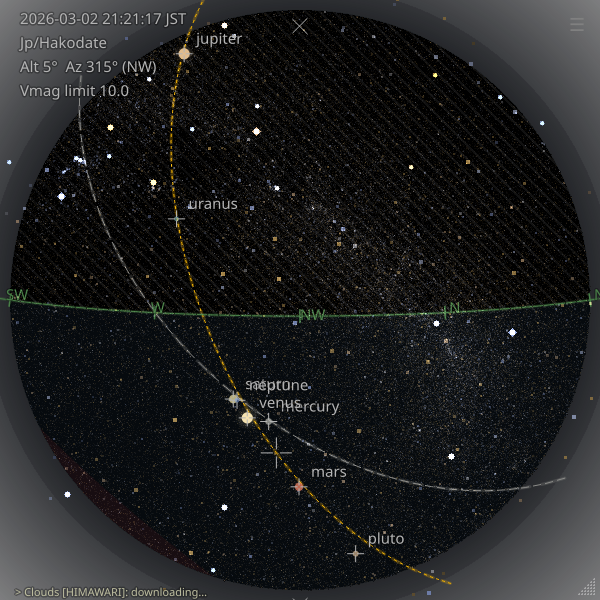
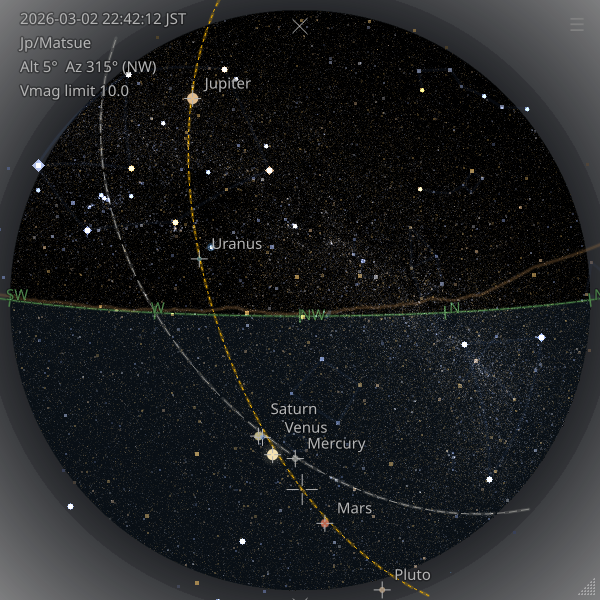
docs: update readmes and terrain data credits

Changed region(s): [[0.0, 0.0, 1.0, 1.0], [0.06, 0.06, 0.18, 0.09], [0.21, 0.0, 0.24, 0.06]]

diff --git a/README_ja-JP.md b/README_ja-JP.md
@@ -16,6 +16,7 @@
 - リアルタイムの衛星雲画像（Himawari/GOES）を縞模様（ハッチ）のオーバーレイとして重ねて表示します。
 - 雲データ取得と雲レイヤー生成は分離されており、カメラ（方位/仰角）変更時はキャッシュ済みソースから即座に再描画します。
 - 衛星データが部分的な場合、欠損領域は薄い黄色ティントで表示します。
+- Copernicus DEM を使った地形地平線オーバーレイを、控えめな茶色のスカイラインとして表示できます。
 - 地平線より下（地面側）は、向きの把握を助けるため薄いティントで表示します。
 - 観測地の緯度に対して昇らない天球領域（never-rises）を赤いティントで表示します。
 
@@ -62,6 +63,7 @@ zstarview [options] [city]
 | `-c`, `--cloud-opacity CLOUD_OPACITY`                 | 雲の不透明度を指定します（0.0〜1.0）。0.0で描画を無効化します。※2 | `0.2`   |
 | `--cloud-missing-tint-opacity OPACITY` | 雲欠損領域の黄色ティント不透明度を指定します（0.0〜1.0）。 | `0.176` |
 | `--sky-opacity SKY_OPACITY`                 | 空の色ディスクの不透明度を指定します（0.0〜1.0）。0.0で描画を無効化します。 | `0.2`   |
+| `--terrain-horizon-opacity OPACITY` | 地形地平線ポリラインの不透明度を指定します（0.0〜1.0）。0.0で DEM ダウンロード・地形地平線計算・描画を無効化します。※4 | `0.25` |
 | `-m`, `--enlarge-moon`                      | 月を5倍に拡大して表示します。                                      |          |
 | `-s`, `--star-base-radius STAR_BASE_RADIUS` | 2等星の基本サイズを指定します。                                   | `4.0`    |
 | `-w`, `--expected-render-width EXPECTED_RENDER_WIDTH` | 恒星をフル解像度で描画する想定ウィンドウ幅を指定します。天球幅がこの値を超える場合、恒星レイヤーは平方根スケーリングで描画します。 | `600` |
@@ -81,6 +83,8 @@ zstarview [options] [city]
 ※2 雲の描画は気象衛星（Himawari, GOES）の赤外線データを S3 バケットから取得して行います。ネットワーク関連の注意や回避策は「トラブルシューティング」を参照してください。
 
 ※3 Pogson の定義では 5 等級差 = 100 倍なので、等級1段階あたりの光量倍数は \(100^{1/5} \approx 2.512\) です。`--vmag-brightness-multiplier` の上限はこの値です。
+
+※4 地形地平線表示は初回利用時に Copernicus DEM タイルをダウンロードし、以後はローカルキャッシュを再利用します。
 
 **起動時のオーバーレイ表示設定**
 
@@ -173,6 +177,7 @@ zstarview "N35.68;E139.76" --datetime "2025-09-12 21 JST"
 * **Search Named Stars...**: カタログ中の固有名付き恒星（約443件）を横断検索し、選択した星へ移動します。
 * **DSO**: DSOオーバーレイの表示/非表示を切り替えます。
 * **Asterisms**: 星座（アステリウム）オーバーレイの表示/非表示を切り替えます（有効時は暗い線を常時表示し、構成星にホバーすると該当アステリズムを明るく強調してラベルを表示します）。
+* **Terrain Horizon**: 地形地平線オーバーレイの表示/非表示を切り替えます。CLI で `--terrain-horizon-opacity 0` を指定して起動した場合、その起動中はメニューから再有効化できません。
 
 ジャンプ/検索の確定後は約3秒間、マウスホバー時と同じ見た目（円マーカー + 名称ラベル）で対象星を強調表示します。
 
@@ -228,7 +233,8 @@ Available platform plugins are: eglfs, offscreen, wayland-egl, linuxfb, wayland,
 
 ### ネットワークが遅い/オフラインで使いたい
 雲の描画は S3 から衛星画像を取得します。回線が細い/オフラインのときは `-c 0` で雲描画を無効化してください。
-雲を無効化しても恒星・惑星・空の色の表示は利用できます。
+地形地平線表示は初回に Copernicus DEM タイルをダウンロードし、その後はローカルキャッシュを再利用します。DEM ダウンロードを避けたい場合は `--terrain-horizon-opacity 0` を指定してください。
+雲や地形地平線を無効化しても恒星・惑星・空の色の表示は利用できます。
 
 雲ステータス表示は `idle` / `downloading` / `partial` を使います。
 - `downloading`: S3 から衛星ソースを取得中
@@ -273,6 +279,7 @@ Tycho-2 入力や分割出力を含む詳細オプションは次を参照して
 | `stars/hip_main.dat.zip`                                   | Hipparcos および Tycho カタログ（ESA 1997）        | [CDS Strasbourg](https://cdsarc.cds.unistra.fr/ftp/I/239/)                 | [ODbL](https://www.data.gouv.fr/licences) または [CC BY-NC 3.0 IGO](https://creativecommons.org/licenses/by-nc/3.0/igo/)（非商用） |
 | `I-259/tyc2.dat.*.gz`, `I-259/ReadMe`                      | Tycho-2 主カタログ（I/259）                        | [CDS Strasbourg](https://cdsarc.cds.unistra.fr/ftp/I/259/)                 | [ODbL](https://www.data.gouv.fr/licences) または [CC BY-NC 3.0 IGO](https://creativecommons.org/licenses/by-nc/3.0/igo/)（非商用） |
 | `dso.csv`                                                   | DSO（銀河/散開星団/球状星団）カタログ（OpenNGC 由来の生成データ） | [OpenNGC](https://github.com/mattiaverga/OpenNGC)（[PyOngc](https://github.com/mattiaverga/PyOngc) 経由で生成） | [CC BY-SA 4.0](https://creativecommons.org/licenses/by-sa/4.0/)（OpenNGC データベース） |
+| アプリのキャッシュディレクトリ配下にオンデマンドで保存される地形 DEM キャッシュ | 地形地平線用の地形データ（Copernicus DEM GLO-90） | [Copernicus DEM / Copernicus Data Space Ecosystem](https://dataspace.copernicus.eu/explore-data/data-collections/copernicus-contributing-missions/collections-description/COP-DEM)（アプリは公開 AWS 配布を利用） | Copernicus DEM 向け ESA User Licence（Copernicus Contributing Mission data access terms） |
 | `stars/IAU-Catalog of Star Names (always up to date).csv`             | IAU 恒星名作業部会 (WGSN) による恒星固有名カタログ | [exopla.net](https://exopla.net/star-names/modern-iau-star-names/)         | [CC BY 4.0](https://creativecommons.org/licenses/by/4.0/)                                                                       |
 | `Noto_Sans/*`     | テキスト表示フォント                             | [Google Fonts](https://fonts.google.com/)   | [SIL Open Font License 1.1](https://openfontlicense.org)                                                                        |
 
@@ -282,6 +289,7 @@ Tycho-2 入力や分割出力を含む詳細オプションは次を参照して
 * 都市データは GeoNames に基づいています。
 * 恒星の固有名は IAU 恒星名作業部会 (WGSN) による承認済みリスト（[exopla.net](https://exopla.net/star-names/modern-iau-star-names/) 経由）を使用しています。
 * 雲データは気象衛星 **Himawari**（提供: JMA）および **NOAA GOES** シリーズ（提供: NOAA/NESDIS）による赤外線観測データを、それぞれの S3 公開バケットから取得して利用しています。
+* 地形地平線データは **Copernicus DEM GLO-90** に基づいており、欧州委員会のために ESA が管理するデータを、アプリでは公開 AWS 配布とローカルキャッシュを通じて利用しています。
 * フォントは Google Noto Project を利用しています。
 * ウィンドウタイトル「Zenith Star View」は ChatGPT の提案に由来します。
 * Gemini および ChatGPT に、仕様の相談、コード生成、デバッグなど、多くの助力をいただきました。

diff --git a/README.md b/README.md
@@ -16,6 +16,7 @@ The name emphasizes the *zenith*—the point directly overhead—conveying the e
 - Real-time satellite cloud imagery (Himawari/GOES), rendered as a stylized hatched (striped) overlay.
 - Cloud fetch and cloud render are decoupled: camera moves can re-render from cached source data immediately.
 - When satellite coverage is partial, missing regions are shown with a faint yellow tint.
+- Terrain horizon overlay from Copernicus DEM is available as a subtle brown skyline.
 - Below the horizon (ground side) is shown with a subtle tint to improve orientation.
 - A red tint marks the *never-rises* celestial region for the current latitude.
 
@@ -61,6 +62,7 @@ zstarview [options] [city]
 | `-c`, `--cloud-opacity CLOUD_OPACITY`       | Opacity of cloud rendering (0.0–1.0). Use 0.0 to disable. \*2                | `0.2`   |
 | `--cloud-missing-tint-opacity OPACITY`      | Opacity of missing-cloud-data yellow tint (0.0–1.0).                          | `0.176` |
 | `--sky-opacity SKY_OPACITY`                 | Opacity of the simulated sky-color disc (0.0–1.0). Use 0.0 to disable.      | `0.2`   |
+| `--terrain-horizon-opacity OPACITY`         | Opacity of the terrain horizon polyline (0.0–1.0). Use 0.0 to disable DEM download, terrain-horizon calculation, and drawing. \*4 | `0.25` |
 | `-m`, `--enlarge-moon`                      | Show the moon in 5x size.                                                   |         |
 | `-s`, `--star-base-radius STAR_BASE_RADIUS` | Base size of 2nd-magnitude stars.                                           | `4.0`   |
 | `-w`, `--expected-render-width EXPECTED_RENDER_WIDTH` | Expected window width for full-resolution star rendering. When celestial-disc width exceeds this, star rendering uses square-root scaling. | `600` |
@@ -81,6 +83,8 @@ zstarview [options] [city]
    See Troubleshooting for tips on slow networks or offline use (e.g., disabling clouds with `-c 0`).
 
 *3 The brightest-magnitude multiplier cannot exceed the classical Pogson value of \(100^{1/5}\approx2.512\).
+
+\*4 Terrain horizon rendering downloads Copernicus DEM tiles on first use and reuses the cached DEM later.
 
 **Overlay visibility at startup**
 
@@ -182,6 +186,7 @@ From the hamburger menu (`☰`), you can use:
 * **Search Named Stars...**: Search across all named stars in the catalog (about 443 names), then jump to the selected star.
 * **DSO**: Toggle deep-sky object overlays on/off.
 * **Asterisms**: Toggle asterism overlays on/off (when enabled, dim overlays stay visible; hovering a member star brightens the matching asterism and shows its label).
+* **Terrain Horizon**: Toggle the terrain skyline overlay on/off. If disabled from the CLI with `--terrain-horizon-opacity 0`, the menu item cannot re-enable it for that run.
 
 After a jump/search, the selected star is highlighted for about 3 seconds using the same UI style as mouse hover (circle marker + name label).
 
@@ -237,7 +242,8 @@ Install the missing `libxcb-cursor0` package with:
 ### Slow or Unstable Network / Offline Use
 Cloud rendering downloads satellite imagery from public S3 buckets (Himawari / NOAA GOES) and relies on heavy dependencies.
 If your network is slow or unavailable, disable clouds with `-c 0`.
-You can still explore stars/planets and sky colors without cloud overlays.
+Terrain horizon rendering downloads Copernicus DEM tiles once and then reuses the local cache. Disable it with `--terrain-horizon-opacity 0` if you do not want DEM downloads.
+You can still explore stars/planets and sky colors without cloud or terrain overlays.
 
 Cloud status text uses `idle` / `downloading` / `partial`:
 - `downloading`: fetching source imagery from S3
@@ -282,6 +288,7 @@ All paths below are relative to `src/zstarview/data/`.
 | `stars/hip_main.dat.zip`                                       | Hipparcos and Tycho Catalogues (ESA 1997)        | [CDS Strasbourg](https://cdsarc.cds.unistra.fr/ftp/I/239/)         | [ODbL](https://www.data.gouv.fr/licences) or [CC BY-NC 3.0 IGO](https://creativecommons.org/licenses/by-nc/3.0/igo/) Non-commercial |
 | `I-259/tyc2.dat.*.gz`, `I-259/ReadMe`                          | Tycho-2 main catalog (I/259)                     | [CDS Strasbourg](https://cdsarc.cds.unistra.fr/ftp/I/259/)         | [ODbL](https://www.data.gouv.fr/licences) or [CC BY-NC 3.0 IGO](https://creativecommons.org/licenses/by-nc/3.0/igo/) Non-commercial |
 | `dso.csv`                                                       | Deep-sky object catalog (named galaxies/open clusters/globular clusters; generated from OpenNGC) | [OpenNGC](https://github.com/mattiaverga/OpenNGC) via [PyOngc](https://github.com/mattiaverga/PyOngc) | [CC BY-SA 4.0](https://creativecommons.org/licenses/by-sa/4.0/) (OpenNGC database) |
+| On-demand terrain DEM cache under the app cache directory | Terrain horizon source data (Copernicus DEM GLO-90) | [Copernicus DEM / Copernicus Data Space Ecosystem](https://dataspace.copernicus.eu/explore-data/data-collections/copernicus-contributing-missions/collections-description/COP-DEM) via public AWS S3 distribution used by the app | ESA User Licence for Copernicus DEM (Copernicus Contributing Mission data access terms) |
 | `stars/IAU-Catalog of Star Names (always up to date).csv`      | IAU WGSN catalog of approved star names          | [exopla.net](https://exopla.net/star-names/modern-iau-star-names/) | [CC BY 4.0](https://creativecommons.org/licenses/by/4.0/)                                                                           |
 | `Noto_Sans/*`                                                   | Font for displaying text                          | [Google Fonts](https://fonts.google.com/)                          | [SIL Open Font License 1.1](https://openfontlicense.org)                                                                            |
 
@@ -291,6 +298,7 @@ All paths below are relative to `src/zstarview/data/`.
 * City data based on GeoNames.
 * Star proper names provided by the IAU Working Group on Star Names (via [exopla.net](https://exopla.net/star-names/modern-iau-star-names/)).
 * Cloud data are based on infrared observations from the **Himawari** satellite (provided by JMA) and the **NOAA GOES** series (provided by NOAA/NESDIS), retrieved from their public S3 buckets.
+* Terrain horizon data are based on **Copernicus DEM GLO-90**, managed by ESA on behalf of the European Commission and obtained by the app through its public AWS distribution/cache flow.
 * Fonts provided by the Google Noto Project.
 * The window title "Zenith Star View" was suggested by ChatGPT.
 * Specification discussions, code generation, and debugging were greatly assisted by Gemini and ChatGPT.
